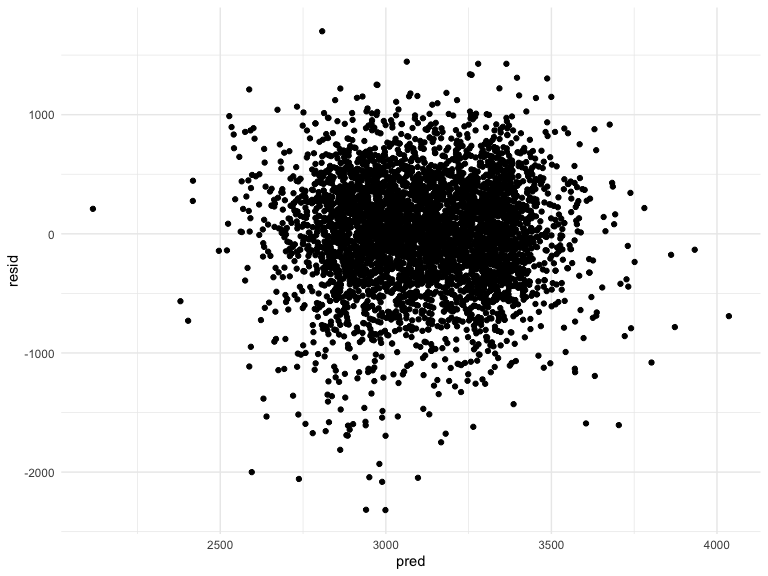
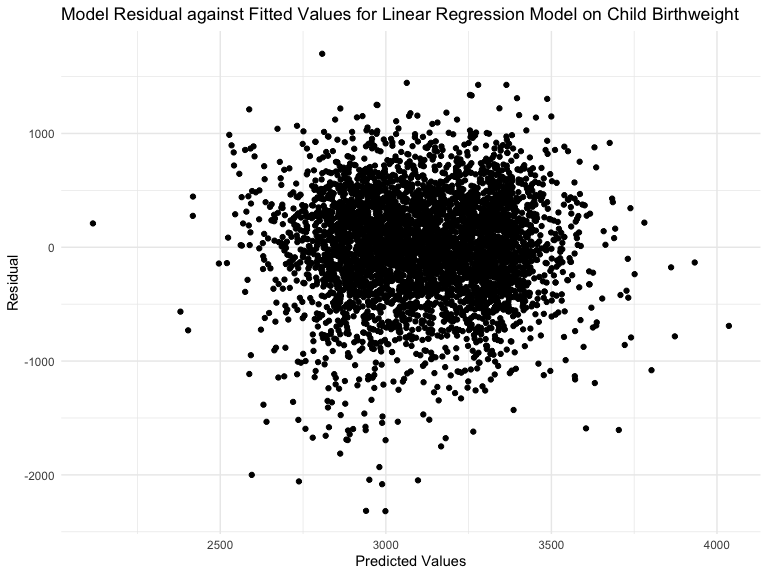
Editing...Done...?

diff --git a/p8105_hw6_yc4017.md b/p8105_hw6_yc4017.md
@@ -122,13 +122,17 @@ After loading the dataset, we want to do some initial cleaning and
 tidying following these criteria below:
 
 - We want to load the data on homicides in 50 large U.S. cities.
+
 - We want to create a `city_state` variable and a binary variable
   indicating whether the homicide is solved.
+
 - Omit cities Dallas, TX; Phoenix, AZ; and Kansas City, MO since they do
   not report victim race. Omit Tulsa, AL because this is a data entry
   mistake.
+
 - We will limit the analysis for whom `victim_race` is `white` or
   `black`.
+
 - Make sure that `victim_age` is a numeric variable.
 
 ``` r
@@ -346,6 +350,7 @@ Examining the plot, here are a few comments:
 
 - The highest odds ratio was observed in Albuquerque, NM, and the lowest
   odds ratio was observed in New York, NY.
+
 - For most large US cities, homicides with female victims have higher
   odds of being resolved than those with male victims. A few cities are
   exceptions where homicides with male victims were more likely to be
@@ -353,6 +358,7 @@ Examining the plot, here are a few comments:
   Richmond, VA. One thing to note is that the ORs for several of these
   cities had very wide 95% CIs and the results were statistically
   insignificant since the 95% CIs cross the null value of OR = 1.
+
 - Larger urban centres generally have OR \< 1 with narrower 95% CIs,
   possibly due to a larger sample size from a larger population. Some
   examples include New York, NY; Chicago, IL; Pittsburgh, PA; San
@@ -402,15 +408,19 @@ birthweight and compose my regression model as such. Based on this
 I have decided to include the following risk factors:
 
 - Mother’s weight gain during pregnancy in pounds (`wtgain`)
+
 - Previous number of low birth weight babies (`pnumlbw`)
+
 - Average number of cigarettes smoked per day during pregnancy
   (`smoken`)
+
 - Race of parents (`frace` and `mrace`)
+
 - Mother’s age at delivery in years (`momage`)
 
 Of course there are other potential factors from this dataset that could
-affect low birthweight, but I do not want to include too many variables
-due to concerns about sample size.
+affect birthweight, but I do not want to include too many variables due
+to concerns about sample size.
 
 ``` r
 own_mod = lm(bwt ~ wtgain + pnumlbw + smoken + frace + mrace + momage, data = childbw_df)
@@ -425,7 +435,12 @@ childbw_df %>%
   modelr::add_predictions(own_mod) %>% 
   modelr::add_residuals(own_mod) %>% 
   ggplot(aes(x = pred, y = resid)) +
-  geom_point()
+  geom_point() +
+  labs(
+    title = "Model Residual against Fitted Values for Linear Regression Model on Child Birthweight",
+    x = "Predicted Values",
+    y = "Residual"
+  )
 ```
 
 <img src="p8105_hw6_yc4017_files/figure-gfm/own_mod plot-1.png" width="90%" />
@@ -488,4 +503,9 @@ cv_df %>%
 
 <img src="p8105_hw6_yc4017_files/figure-gfm/unnamed-chunk-2-1.png" width="90%" />
 
-Wow…my model is crap…
+Looking at the violin plots, we see that the model containing three-way
+interactions between head circumference, length at birth, and sex of the
+baby has the lowest RMSEs, which suggests that it has the best
+performance. The model I built had the worst performance, probably
+because it failed to acocunt for interactions between some of the
+variables in the model.
